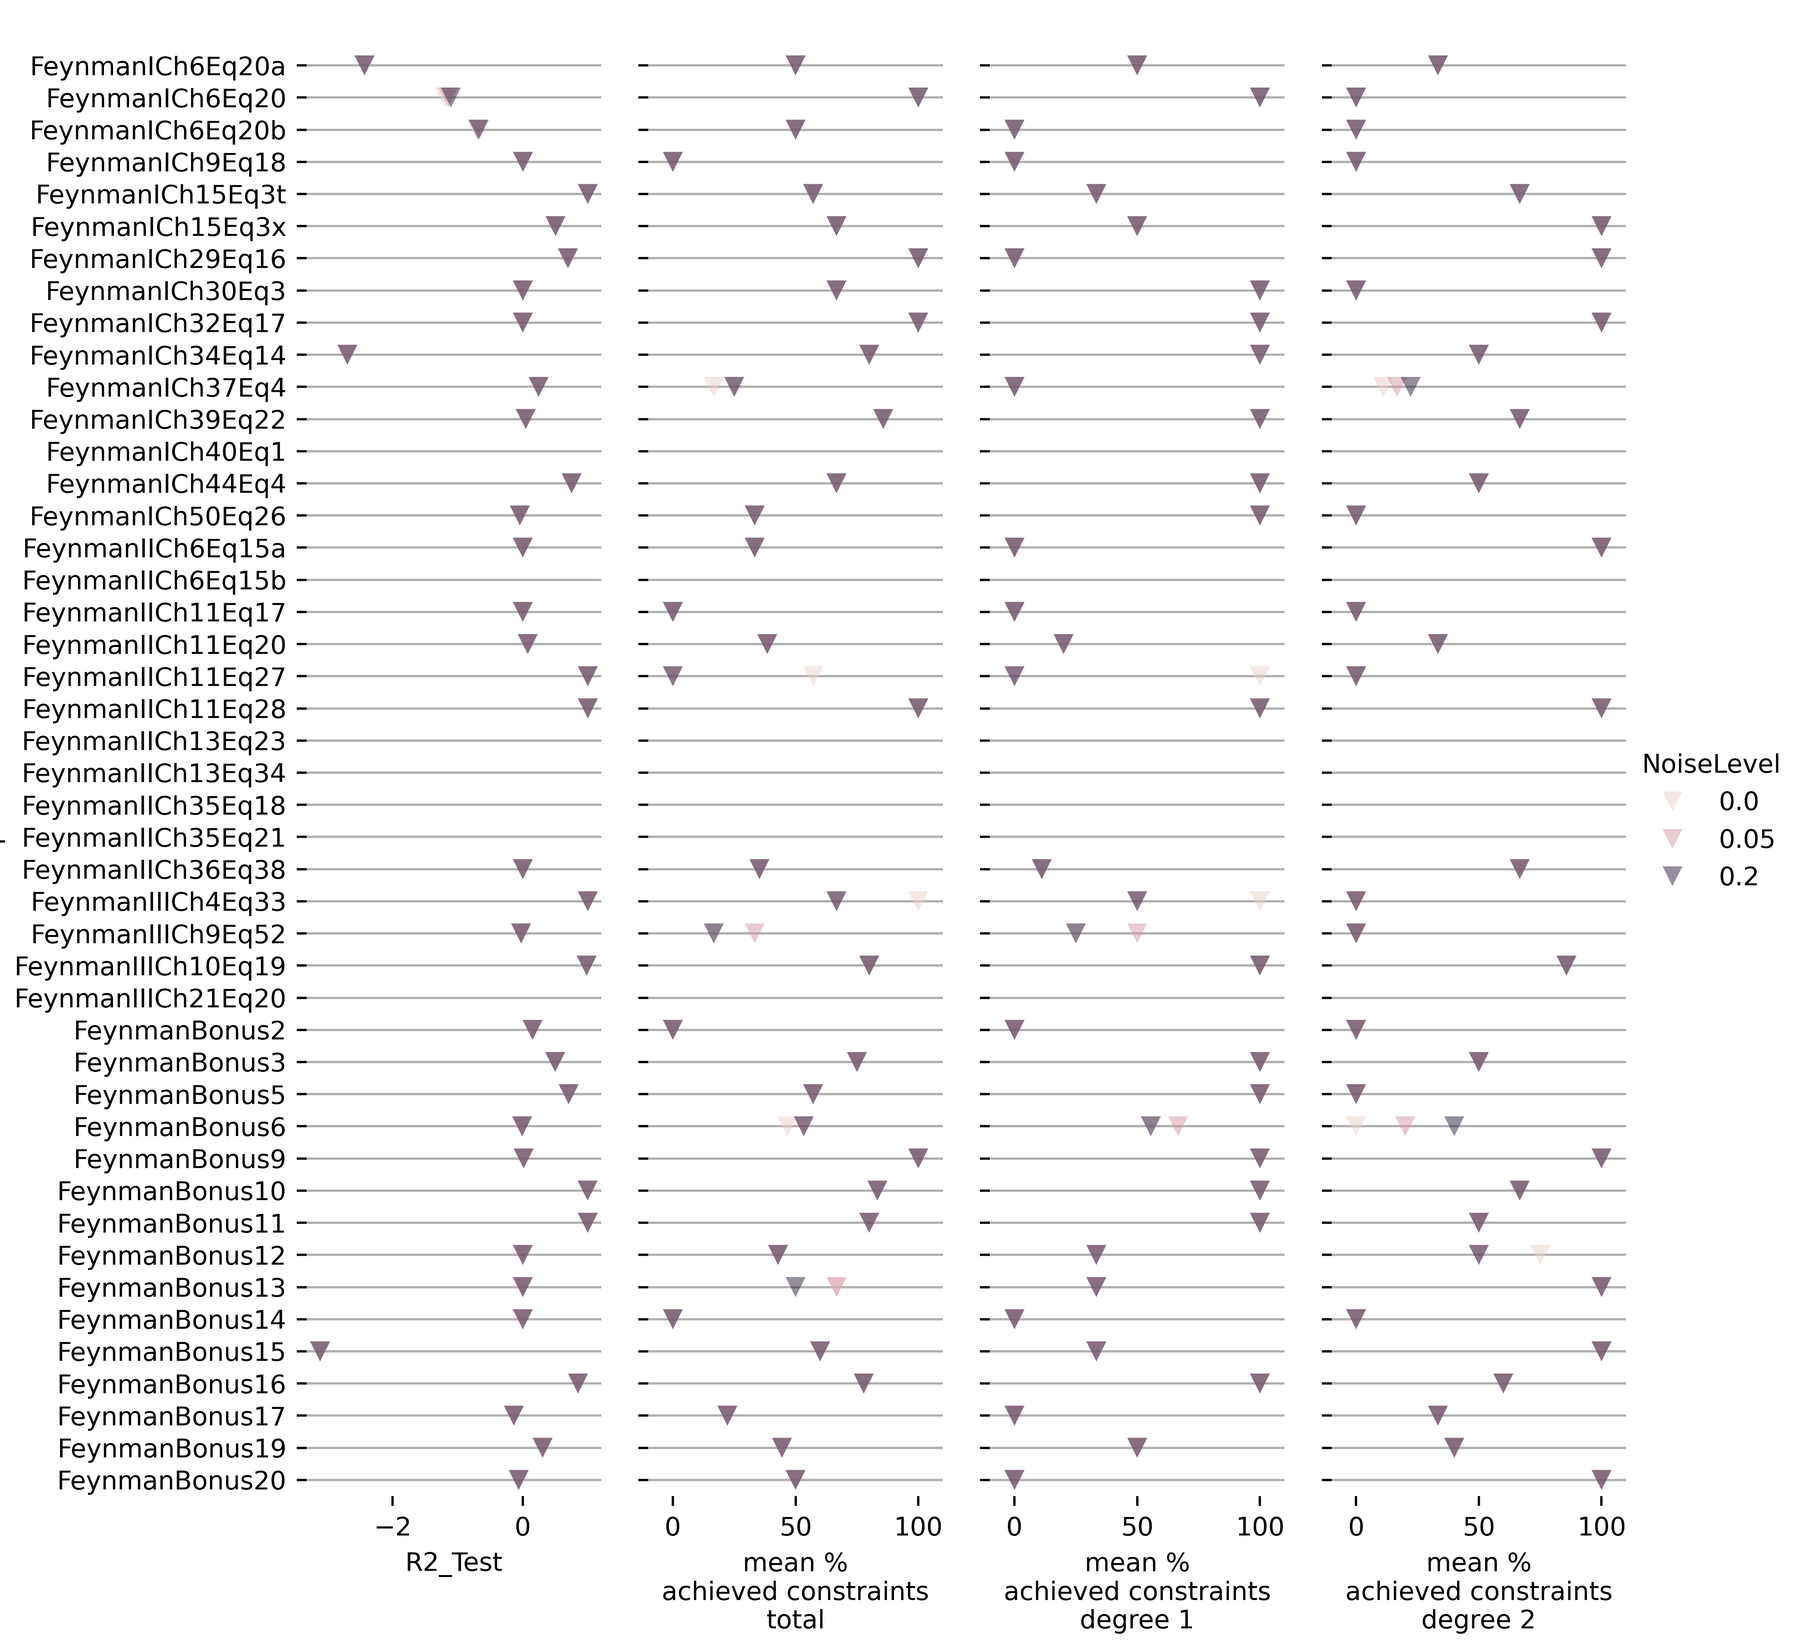
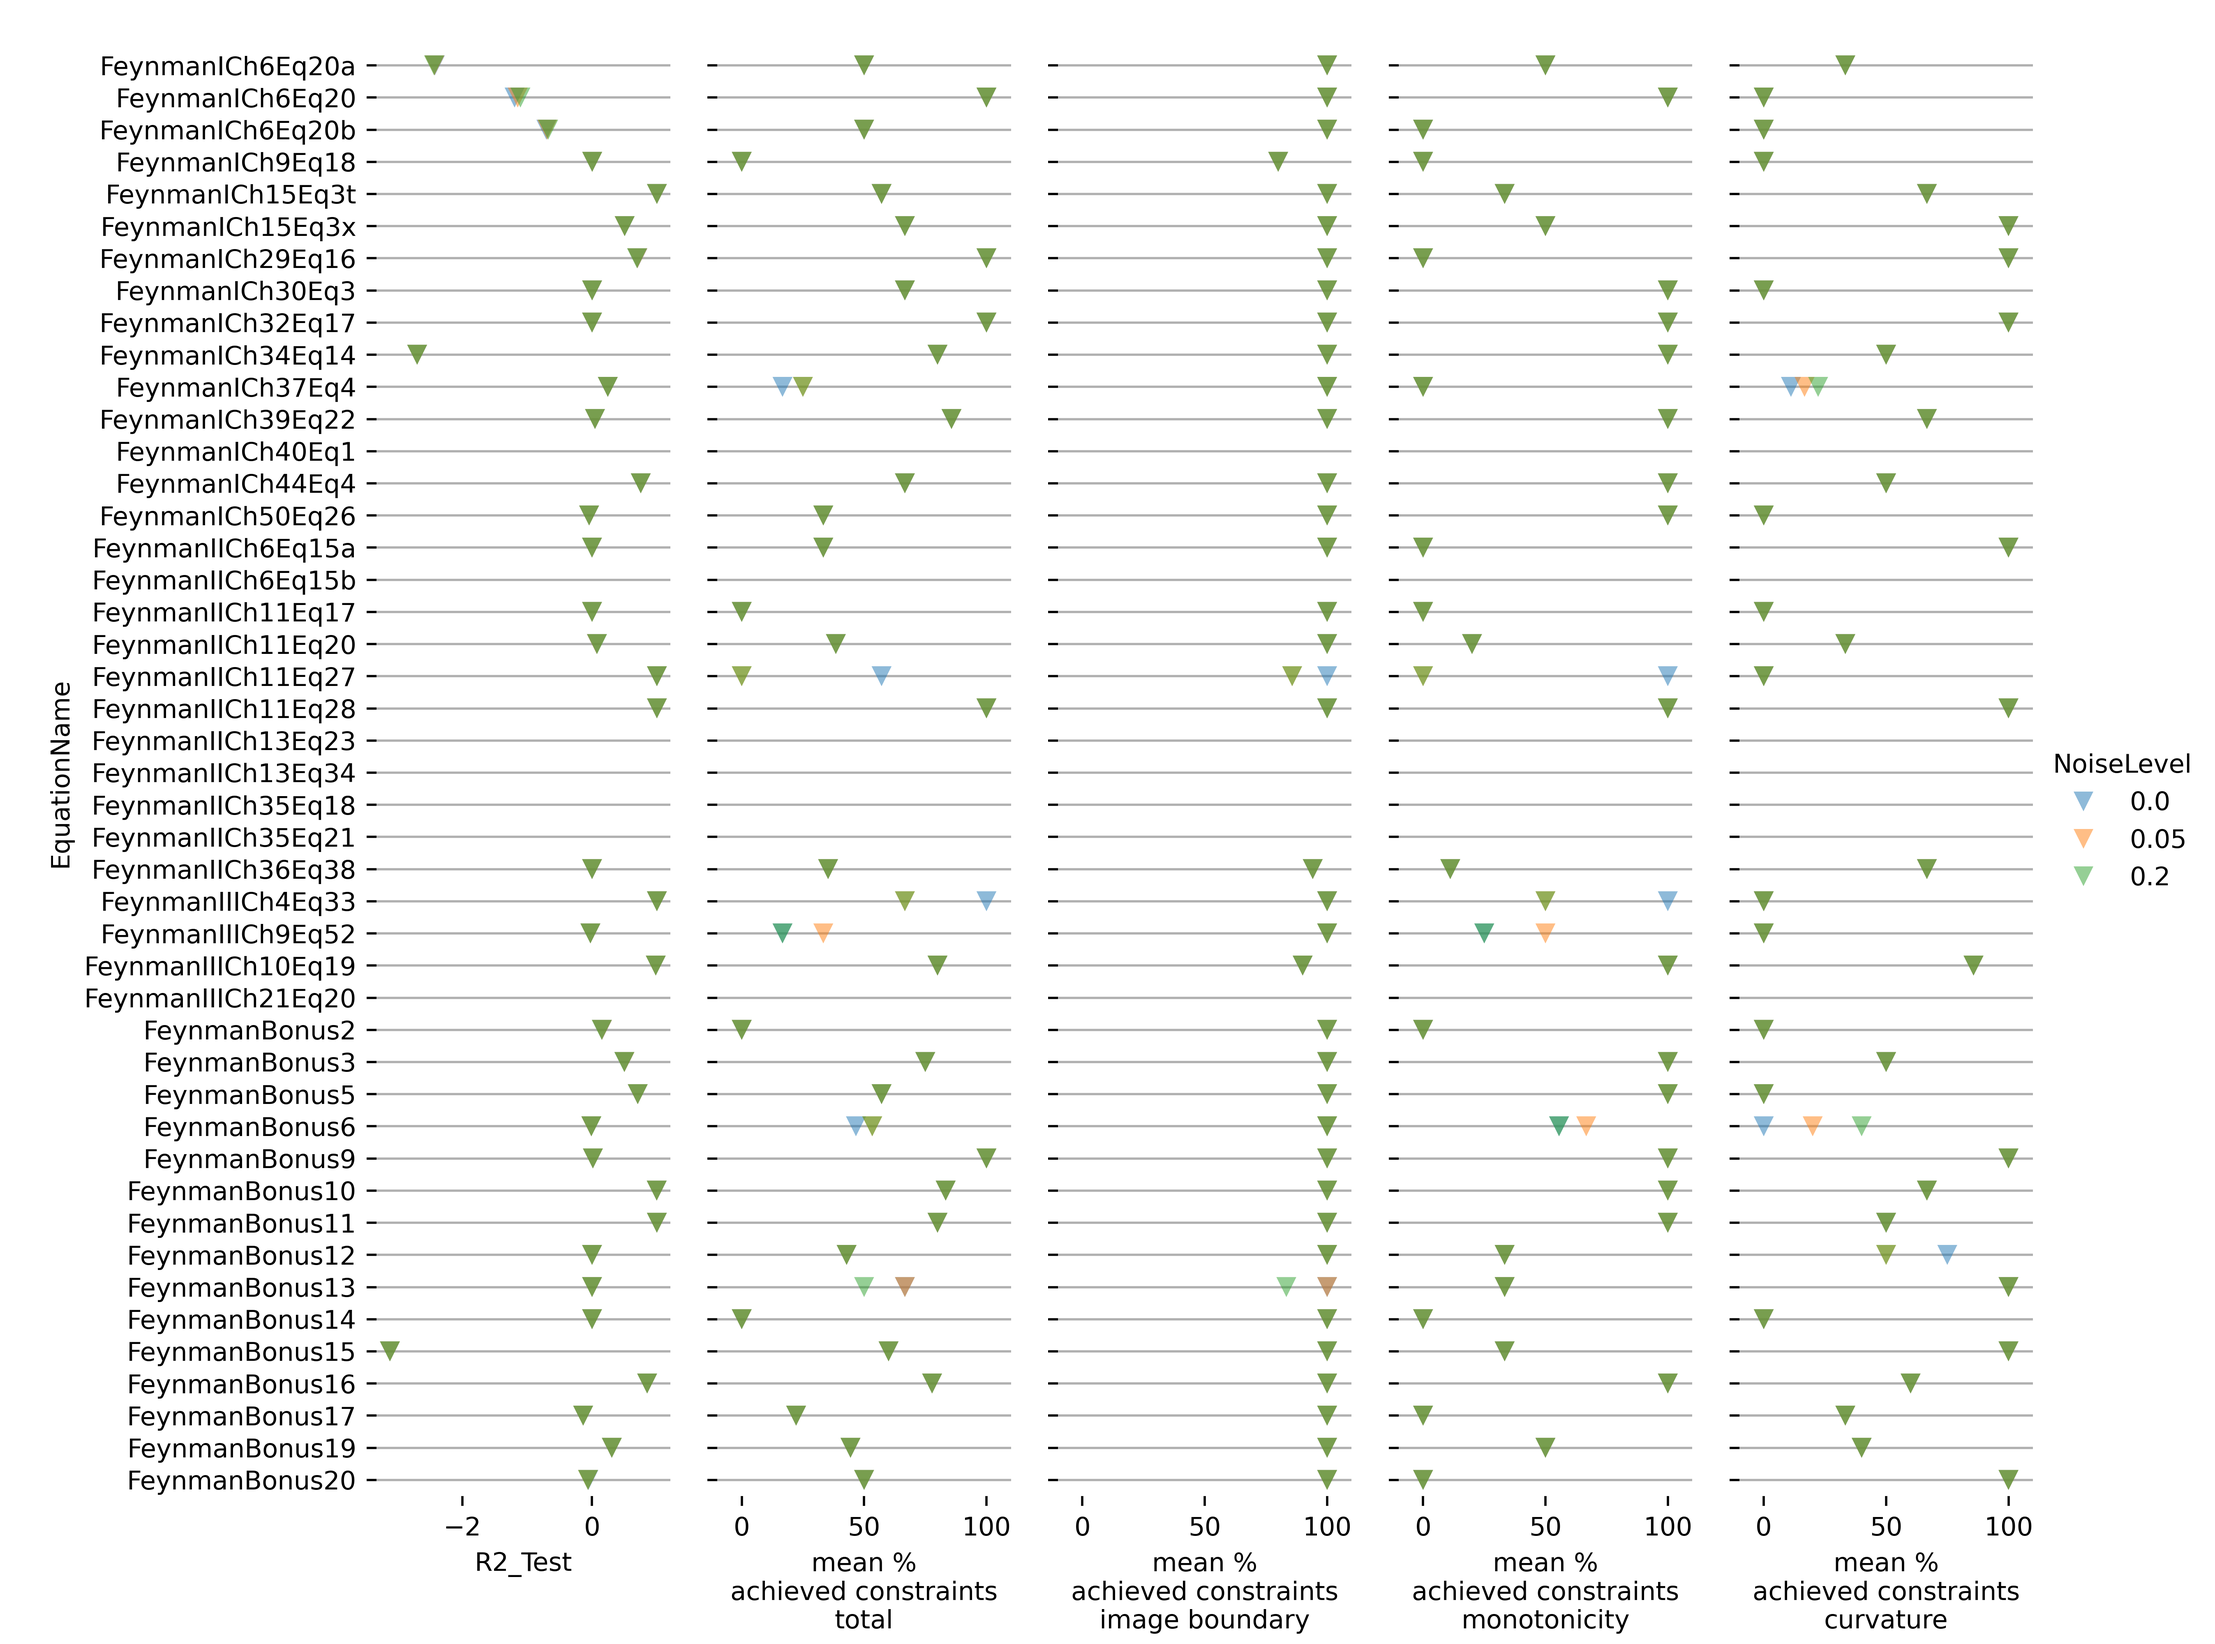
add image boundary to dotplot, use different color schema

diff --git a/results/6-dotplot.py b/results/6-dotplot.py
@@ -23,20 +23,26 @@ results_scpr = pd.read_csv('./results/4-R2Score-and-Violations.csv')
 
 print(np.unique(results_scpr['EquationName']))
 print(len(np.unique(results_scpr['EquationName'])))
+results_scpr['ConstraintsDerivative0Count'] = results_scpr['ConstraintsCount'] - (results_scpr['ConstraintsDerivative1Count'] + results_scpr['ConstraintsDerivative2Count'])
+results_scpr['ConstraintsViolatedDerivative0Count'] = results_scpr['ConstraintsViolated'] - (results_scpr['ConstraintsViolatedDerivative1Count'] + results_scpr['ConstraintsViolatedDerivative2Count'])
 
 results_scpr['ConstraintsCount'].fillna(1, inplace=True)
+results_scpr['ConstraintsDerivative0Count'].fillna(1, inplace=True)
 results_scpr['ConstraintsDerivative1Count'].fillna(1, inplace=True)
 results_scpr['ConstraintsDerivative2Count'].fillna(1, inplace=True)
 results_scpr['ConstraintsViolated'].fillna(1, inplace=True)
+results_scpr['ConstraintsViolatedDerivative0Count'].fillna(1, inplace=True)
 results_scpr['ConstraintsViolatedDerivative1Count'].fillna(1, inplace=True)
 results_scpr['ConstraintsViolatedDerivative2Count'].fillna(1, inplace=True)
 results_scpr['R2_Test'].fillna(-10, inplace=True)
 
 results_scpr['ConstraintsAchievedScaled'] = (1-(results_scpr['ConstraintsViolated']/results_scpr['ConstraintsCount']) ) * 100
+results_scpr['ConstraintsAchievedDerivative0Scaled'] = (1-((results_scpr['ConstraintsViolated']-results_scpr['ConstraintsViolatedDerivative1Count']-results_scpr['ConstraintsViolatedDerivative2Count'])/results_scpr['ConstraintsCount'])) * 100
 results_scpr['ConstraintsAchievedDerivative1Scaled'] = (1-(results_scpr['ConstraintsViolatedDerivative1Count']/results_scpr['ConstraintsDerivative1Count'])) * 100
 results_scpr['ConstraintsAchievedDerivative2Scaled'] = (1-(results_scpr['ConstraintsViolatedDerivative2Count']/results_scpr['ConstraintsDerivative2Count'])) * 100
 
 results_scpr['ConstraintsAchievedScaled'].fillna(0, inplace=True)
+results_scpr['ConstraintsAchievedDerivative0Scaled'].fillna(0, inplace=True)
 results_scpr['ConstraintsAchievedDerivative1Scaled'].fillna(0, inplace=True)
 results_scpr['ConstraintsAchievedDerivative2Scaled'].fillna(0, inplace=True)
 
@@ -46,10 +52,11 @@ results_scpr['CountHelper'] = [1] * len(results_scpr)
 results_scpr['EquationName'] = results_scpr['EquationName'].astype("category")
 results_scpr['EquationName'] = results_scpr['EquationName'].cat.set_categories(FEYNMAN_SRSD_HARD)
 
+
 results_scpr = results_scpr[results_scpr['Successful'] == True]
 
 print(results_scpr[['ConstraintsCount','ConstraintsViolated','ConstraintsAchievedScaled']])
-results_scpr = results_scpr[['EquationName','SampleSize','NoiseLevel', 'R2_Test',"ConstraintsAchievedScaled","ConstraintsAchievedDerivative1Scaled","ConstraintsAchievedDerivative2Scaled" ]]
+results_scpr = results_scpr[['EquationName','SampleSize','NoiseLevel', 'R2_Test',"ConstraintsAchievedScaled","ConstraintsAchievedDerivative0Scaled","ConstraintsAchievedDerivative1Scaled","ConstraintsAchievedDerivative2Scaled" ]]
 results_scpr = results_scpr.groupby(
     ['EquationName','SampleSize','NoiseLevel' ]).median().reset_index()
 results_scpr.index = pd.RangeIndex(len(results_scpr.index))
@@ -63,13 +70,12 @@ for sampleSize in [1000,10000]:
 
   df = df.sort_values(['EquationName','SampleSize','NoiseLevel'])
   g = sns.PairGrid(df,
-                  x_vars=['R2_Test',"ConstraintsAchievedScaled","ConstraintsAchievedDerivative1Scaled","ConstraintsAchievedDerivative2Scaled"], y_vars=["EquationName"],
+                  x_vars=['R2_Test',"ConstraintsAchievedScaled","ConstraintsAchievedDerivative0Scaled","ConstraintsAchievedDerivative1Scaled","ConstraintsAchievedDerivative2Scaled"], y_vars=["EquationName"],
                   height=8, aspect=.25, hue = 'NoiseLevel')
   plt.subplots_adjust(left=0.17, bottom=0.09, right=0.90, top=0.97, wspace=0.16, hspace=0.1)
 
   # Draw a dot plot using the stripplot function
-  g.map(sns.stripplot, size=7, orient="h", jitter=False,
-        palette="flare_r", linewidth=0, edgecolor=None, marker = 'v', alpha = 0.5)
+  g.map(sns.stripplot, size=7, orient="h", jitter=False, hue = 'NoiseLevel', data = df, palette = 'tab10', marker = 'v', alpha = 0.5)
   g.add_legend()
 
   for ax in g.axes.flat:
@@ -81,10 +87,12 @@ for sampleSize in [1000,10000]:
         ax.set( xlabel="mean $R^2$ validation", ylabel="")
       if(label == "ConstraintsAchievedScaled"):
         ax.set(xlim=(-10,110), xlabel="mean %\nachieved constraints\ntotal", ylabel="")
+      if(label == "ConstraintsAchievedDerivative0Scaled"):
+        ax.set(xlim=(-10,110), xlabel="mean %\nachieved constraints\nimage boundary", ylabel="")
       if(label == "ConstraintsAchievedDerivative1Scaled"):
-        ax.set(xlim=(-10,110), xlabel="mean %\nachieved constraints\ndegree 1", ylabel="")
+        ax.set(xlim=(-10,110), xlabel="mean %\nachieved constraints\nmonotonicity", ylabel="")
       if(label == "ConstraintsAchievedDerivative2Scaled"):
-        ax.set(xlim=(-10,110), xlabel="mean %\nachieved constraints\ndegree 2", ylabel="")
+        ax.set(xlim=(-10,110), xlabel="mean %\nachieved constraints\ncurvature", ylabel="")
 
 
   sns.despine(left=True, bottom=True)
